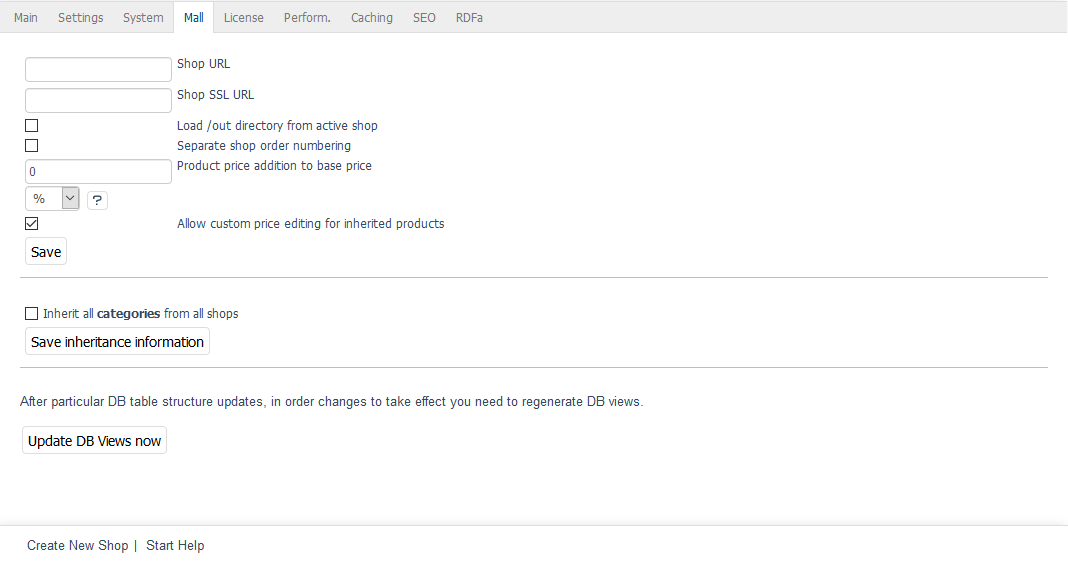
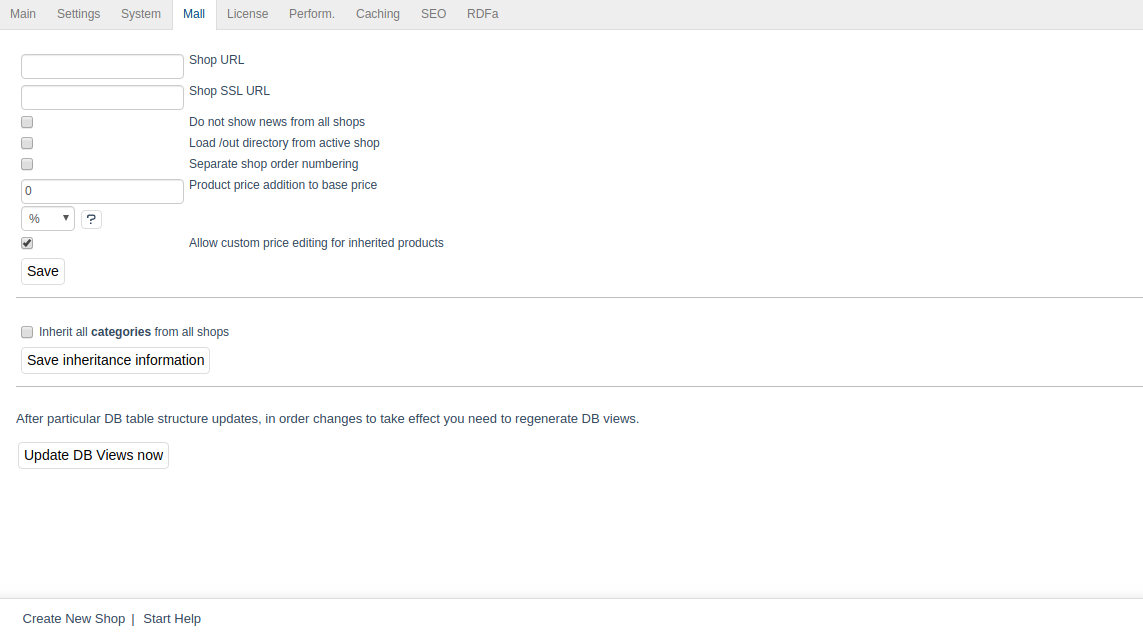
OXDEV-555 describe the new option for multishop about news inheritance

diff --git a/configuration/mall-function/subshops-supershops-multishops.rst b/configuration/mall-function/subshops-supershops-multishops.rst
@@ -7,7 +7,7 @@ When you create a shop, you will need to define which shop type the new shop is 
 
 *Supershop* can also inherit products and settings from a parent shop and pass them on to new shops. In addition, supershop allows you to assign products, attributes, selection lists, etc. to each shop. This also applies to the main shop and to subshops, for which the supershop is not the parent shop.
 
-*Multishop* comes without the inheritance feature because it displays all products, manufacturers and distributors from all shops. It is the only shop type that can load all categories from other shops.
+*Multishop* comes without the inheritance feature because it displays all products, manufacturers and distributors from all shops. It is the only shop type that can load all categories from other shops. About news, we can choose if we want our multishop to inherit all the news from other shops or not.
 
 .. image:: ../../media/screenshots/oxbagn01.png
    :alt: Create New Shop
@@ -33,7 +33,7 @@ Check this box to create a multishop shop type.
 
 If you don’t select supershop or multishop as shop type when creating a new shop, a subshop will be created.
 
-Settings for the shop’s Mall function can be configured under :menuselection:`Master Settings --> Core Settings` in the :guilabel:`Mall` tab. They are almost identical for all shop types. The only difference is that for the multishop, there is the option to load all categories from all shops. If products, attributes, selection lists and other elements and settings were inherited from a parent shop, the tab will also display the inheritance settings.
+Settings for the shop’s Mall function can be configured under :menuselection:`Master Settings --> Core Settings` in the :guilabel:`Mall` tab. They are almost identical for all shop types. There are only two additional options for multishops, the first one is the option to load all categories from all shops, the second one is the option to choose if we want to have all the news from other shops in our multishop or not. If products, attributes, selection lists and other elements and settings were inherited from a parent shop, the tab will also display the inheritance settings.
 
 .. image:: ../../media/screenshots/oxbagn02.png
    :alt: Multishop - Mall tab
@@ -49,6 +49,9 @@ Structuring the various shops using paths in the URL is impossible. If no URL is
 
 :guilabel:`Shop SSL URL` |br|
 A web address for the encrypted access to the shop. See the above comments on the URL.
+
+:guilabel:`Do not show news from all shops` |br|
+Check this box if you do not want to have all the news from other shops in your multishop.
 
 :guilabel:`Load /out directory from active shop` |br|
 Check this box if, for example, you want to load the product photos using the URL of the active shop. Without this box checked, the product photos and other resources from the :file:`/out` directory will be loaded using the URL of the main shop.
